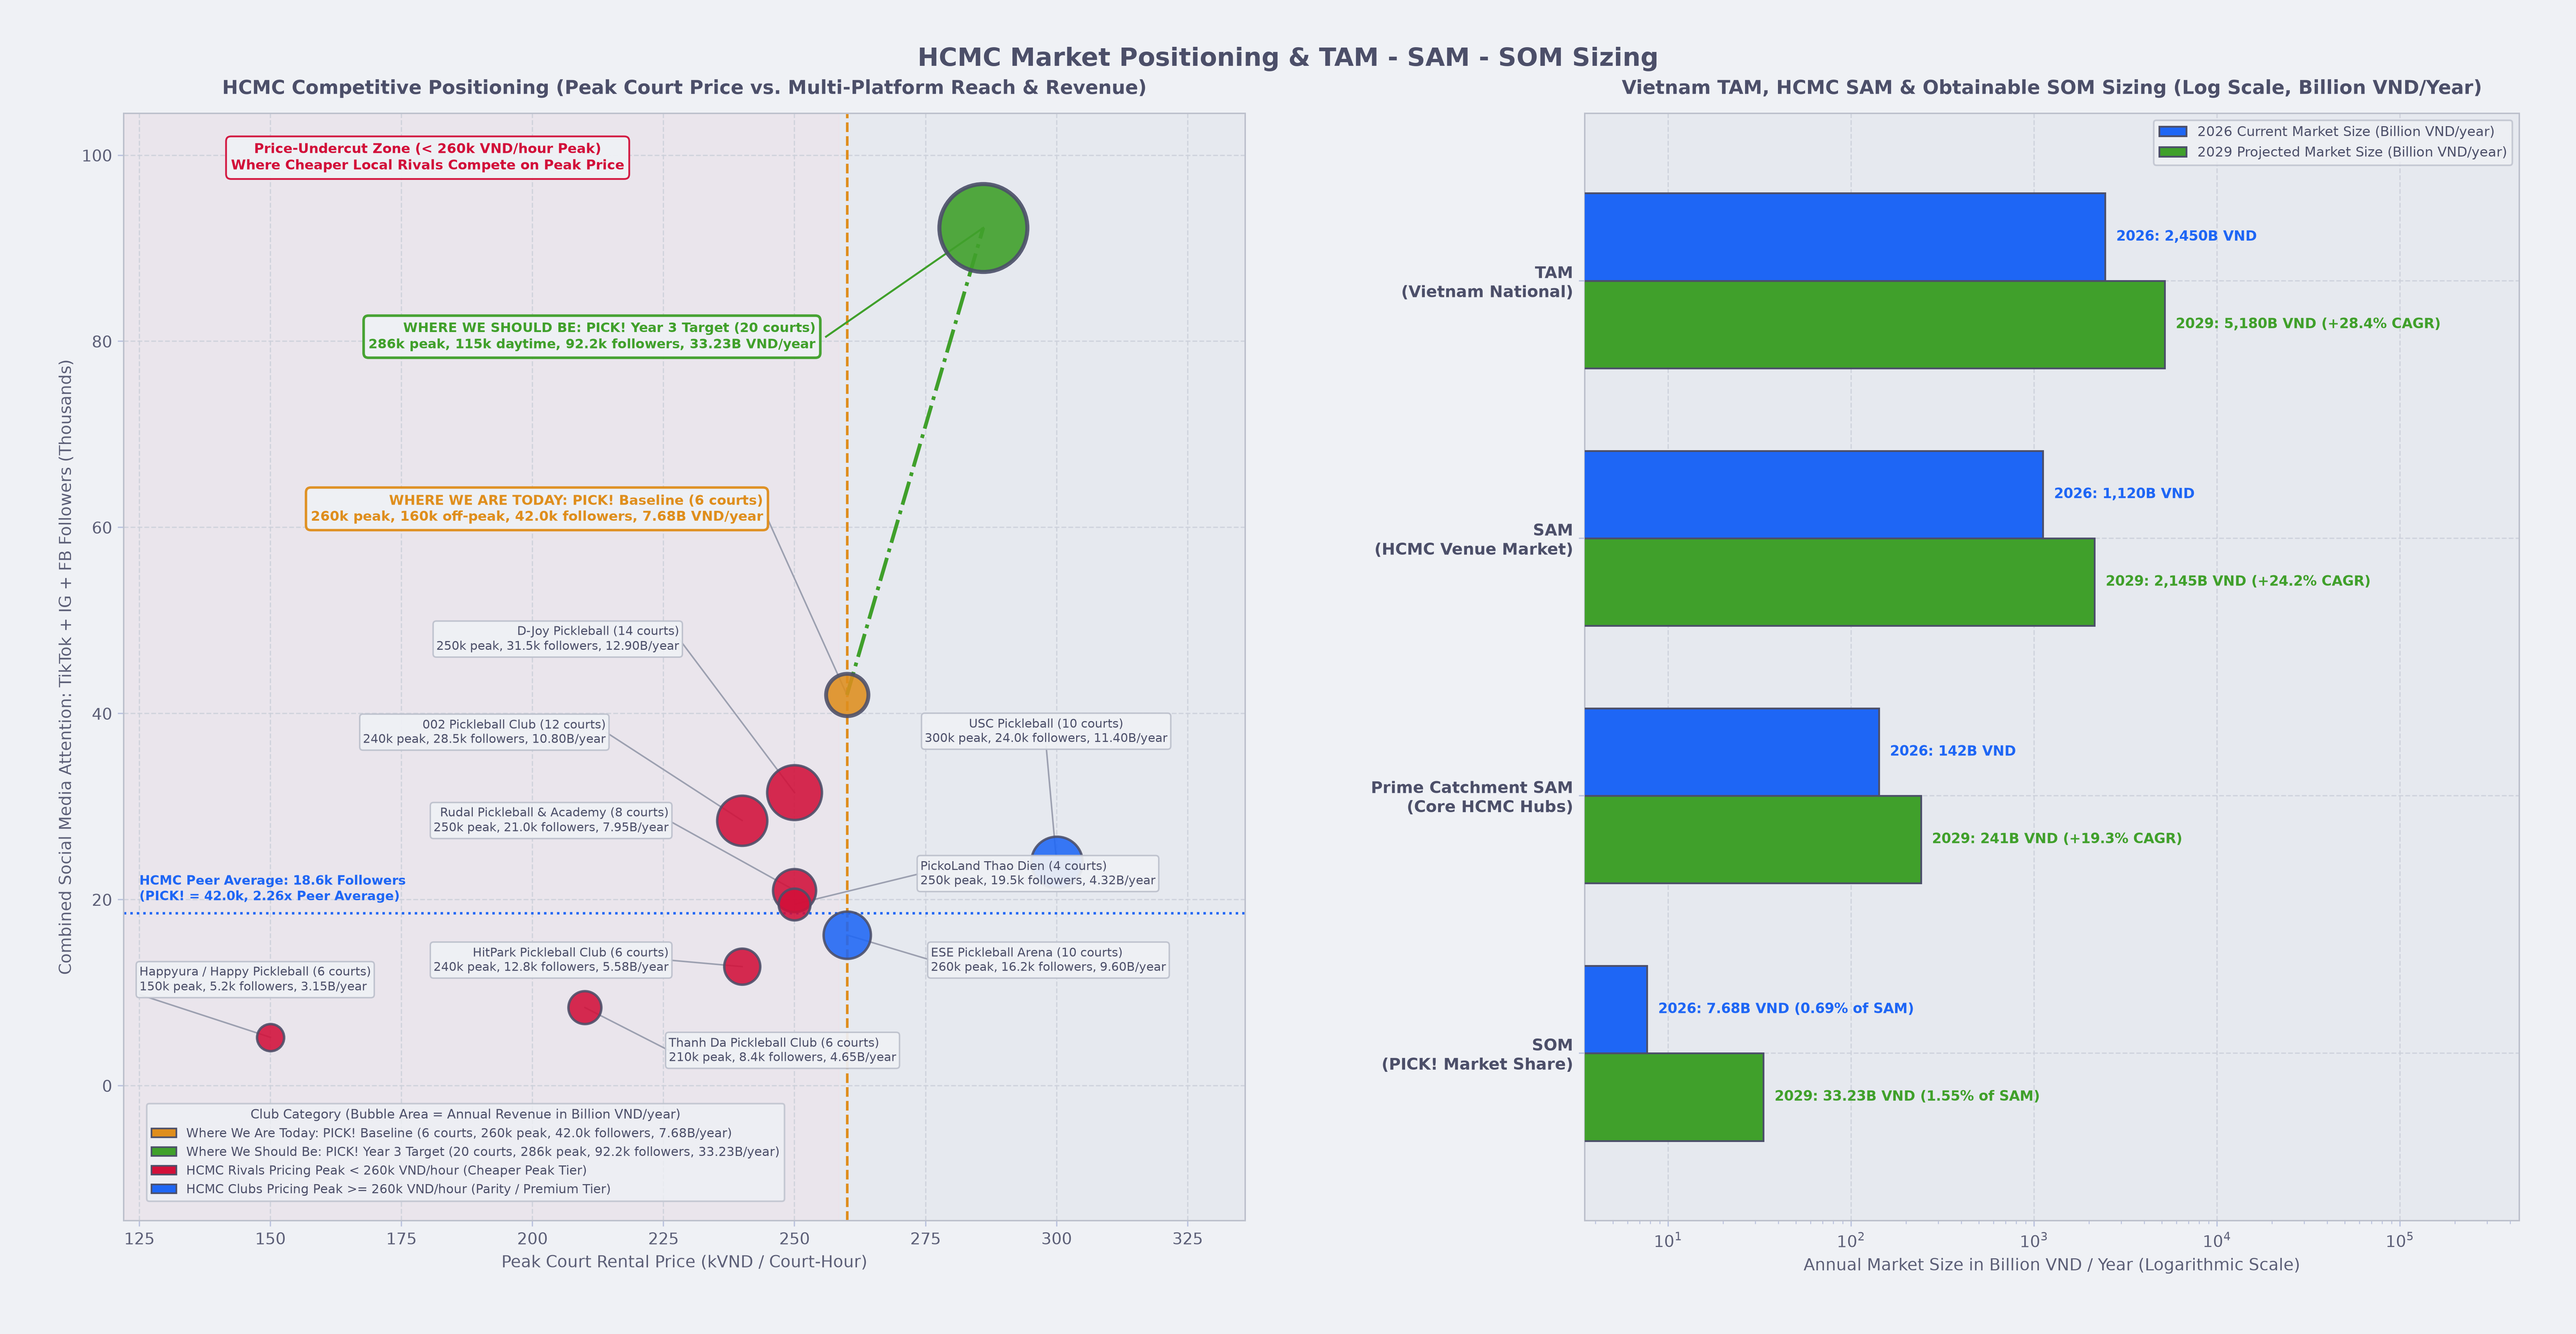
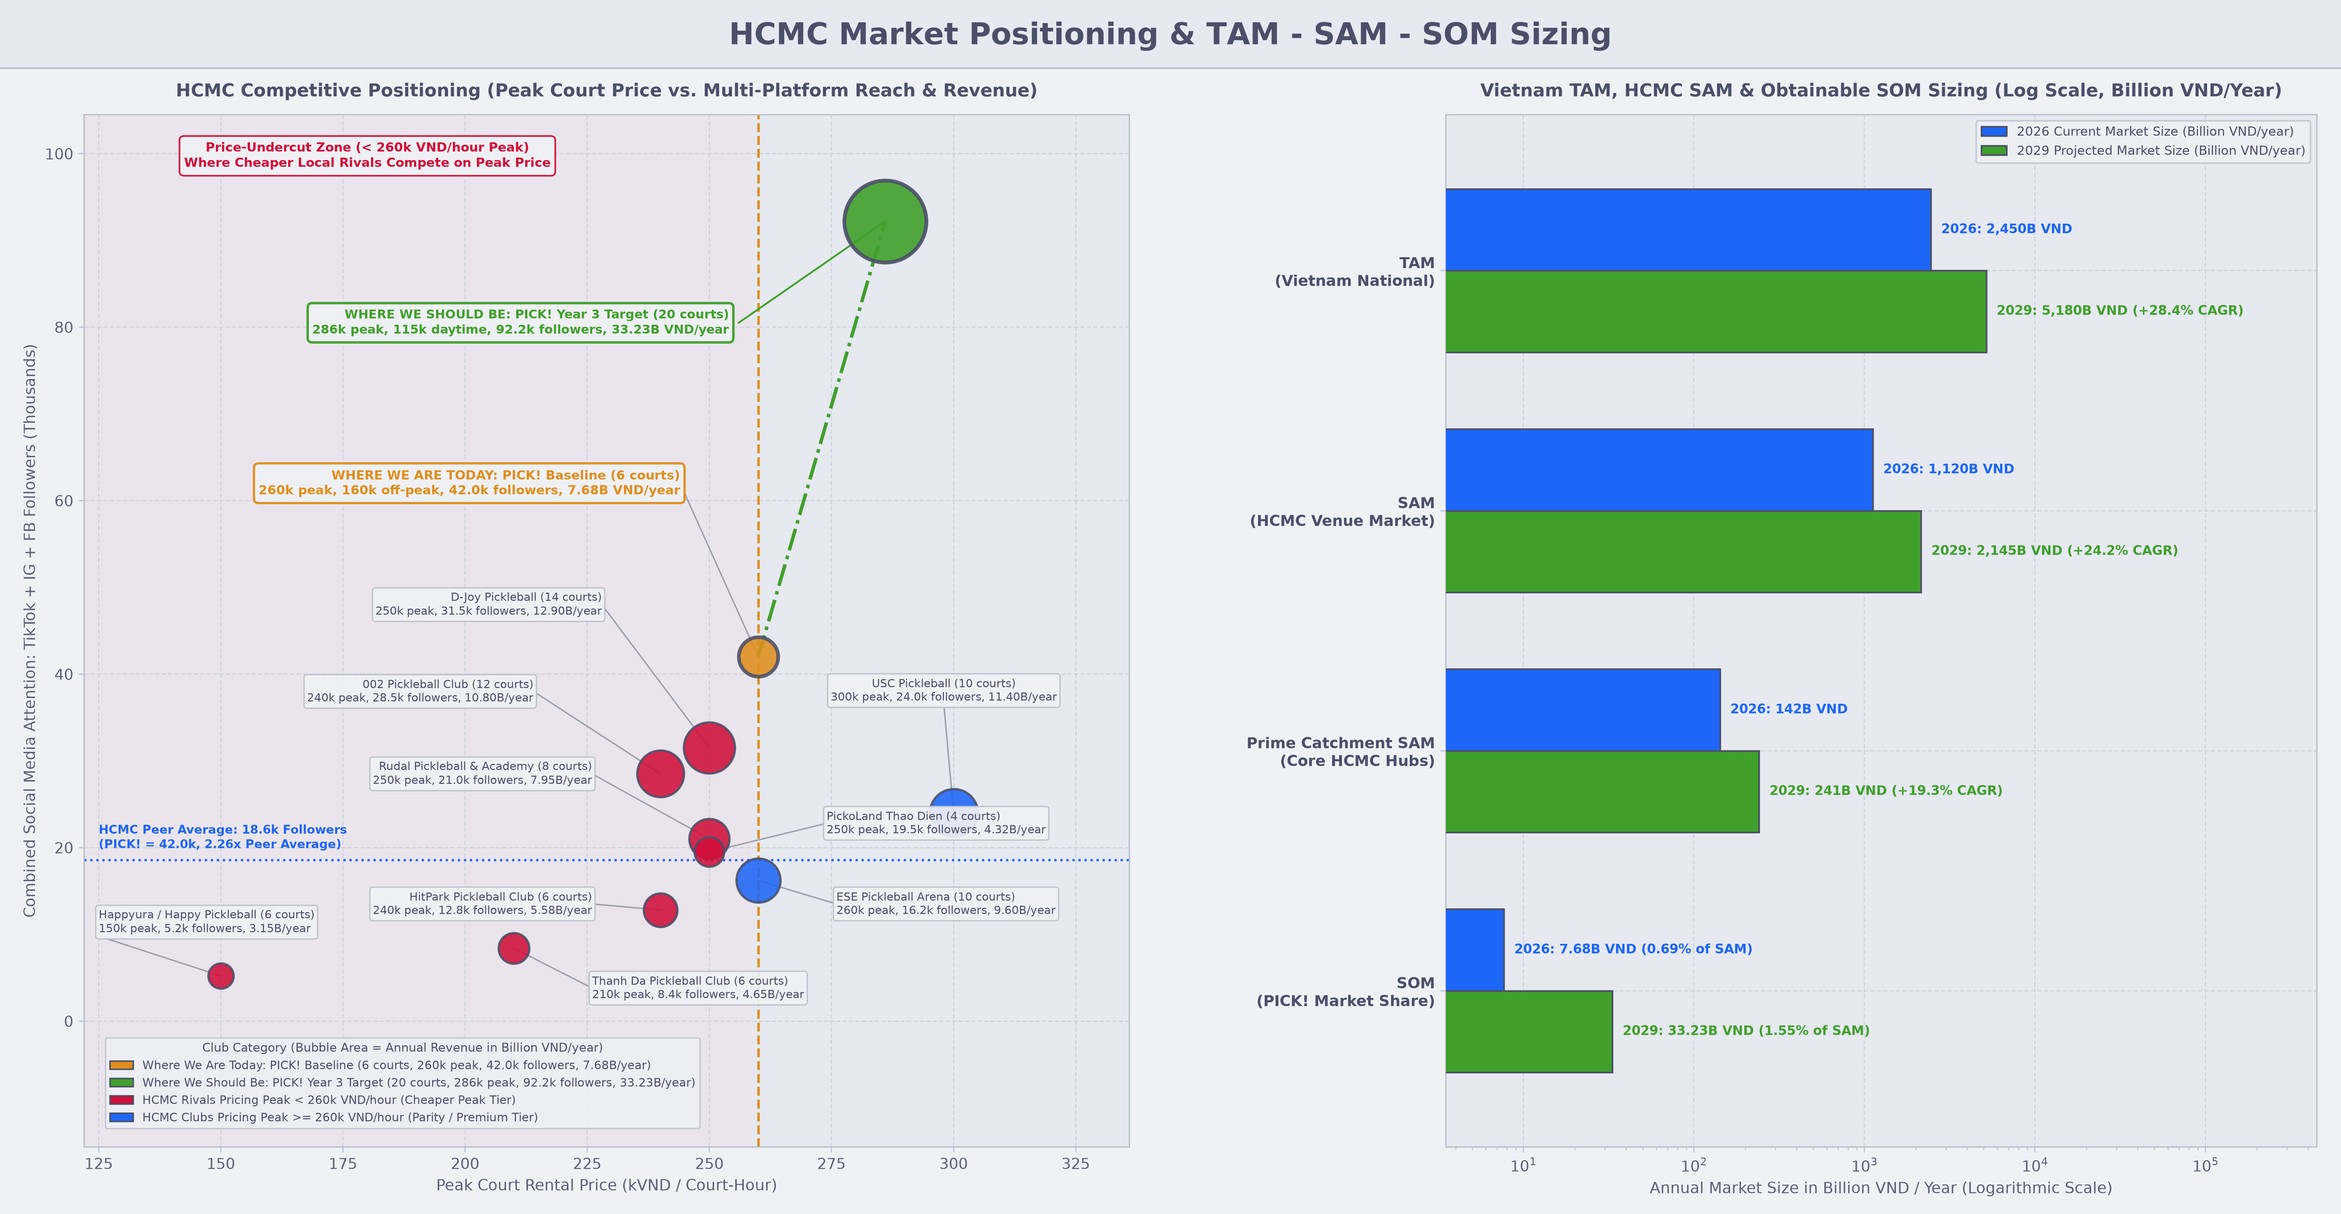
Standardize unified top header section and title alignment across all 25 charts

diff --git a/theme.py b/theme.py
@@ -329,20 +329,118 @@ def apply_latte_theme_to_figure(fig: mfigure.Figure) -> None:
 
 
 def _themed_savefig(self: mfigure.Figure, *args, **kwargs):
-    """Wrapper around `Figure.savefig` that applies the active Catppuccin theme (`Mocha` or `Latte`) at high poster DPI (>= 320)."""
+    """
+    Wrapper around `Figure.savefig` that applies the active Catppuccin theme (`Mocha` or `Latte`),
+    renders the content area tightly, and attaches a standardized, pixel-identical Header Section
+    across the top of every saved image.
+    """
+    import io
+    import matplotlib.font_manager as fm
+    from PIL import Image, ImageDraw, ImageFont
+
     req_dpi = kwargs.get("dpi")
     base_dpi = float(req_dpi) if isinstance(req_dpi, (int, float)) else float(self.dpi or 320.0)
-    kwargs["dpi"] = max(base_dpi, 320.0)
+    render_dpi = max(base_dpi, 320.0)
+
+    # 1. Extract main chart title from `fig._suptitle` or top-center figure text and remove from content render
+    header_title = ""
+    if getattr(self, "_suptitle", None) is not None:
+        header_title = self._suptitle.get_text().strip()
+        if self._suptitle in self.texts:
+            self.texts.remove(self._suptitle)
+        self._suptitle = None
+
+    remaining_texts = []
+    for txt in list(self.texts):
+        pos = txt.get_position()
+        if len(pos) >= 2 and float(pos[1]) >= 0.935 and txt.get_ha() == "center":
+            if not header_title:
+                header_title = txt.get_text().strip()
+        else:
+            remaining_texts.append(txt)
+    self.texts = remaining_texts
+
+    header_title = " ".join(header_title.split())
+
+    # 2. Apply active Catppuccin theme (`Latte` or `Mocha`)
     active = get_theme()
     if active == "Latte":
         apply_latte_theme_to_figure(self)
-        if "facecolor" in kwargs:
-            kwargs["facecolor"] = _map_color(kwargs["facecolor"], FACE_MOCHA_TO_LATTE, preserve_alpha=False)
-        else:
-            kwargs["facecolor"] = "#eff1f5"
-        if "edgecolor" in kwargs:
-            kwargs["edgecolor"] = _map_color(kwargs["edgecolor"], FACE_MOCHA_TO_LATTE, preserve_alpha=False)
-    return _ORIG_SAVEFIG(self, *args, **kwargs)
+        bg_hex = "#eff1f5"
+        hdr_bg_rgb = (230, 233, 239)      # #e6e9ef (Latte Mantle)
+        hdr_border_rgb = (188, 192, 204)  # #bcc0cc (Latte Surface1)
+        hdr_text_rgb = (76, 79, 105)      # #4c4f69 (Latte Text)
+        canvas_bg_rgb = (239, 241, 245)   # #eff1f5 (Latte Base)
+    else:
+        bg_hex = "#1e1e2e"
+        hdr_bg_rgb = (24, 24, 37)         # #181825 (Mocha Mantle)
+        hdr_border_rgb = (69, 71, 90)     # #45475a (Mocha Surface1)
+        hdr_text_rgb = (205, 214, 244)    # #cdd6f4 (Mocha Text)
+        canvas_bg_rgb = (30, 30, 46)      # #1e1e2e (Mocha Base)
+
+    # 3. Render the content-only figure into an in-memory PNG buffer
+    buf = io.BytesIO()
+    save_kwargs = dict(kwargs)
+    save_kwargs["dpi"] = render_dpi
+    save_kwargs["format"] = "png"
+    save_kwargs["bbox_inches"] = "tight"
+    save_kwargs["pad_inches"] = 0.03
+    save_kwargs["facecolor"] = bg_hex
+    save_kwargs["edgecolor"] = bg_hex
+    _ORIG_SAVEFIG(self, buf, **save_kwargs)
+    buf.seek(0)
+
+    content_img = Image.open(buf).convert("RGB")
+    arr = np.asarray(content_img, dtype=np.int16)
+    bg_arr = np.array(canvas_bg_rgb, dtype=np.int16)
+    mask = np.any(np.abs(arr - bg_arr) > 2, axis=2)
+    if np.any(mask):
+        ys, xs = np.where(mask)
+        content_img = content_img.crop((int(xs.min()), int(ys.min()), int(xs.max()) + 1, int(ys.max()) + 1))
+
+    # 4. Normalize content width and compose with the universal Header Section
+    TARGET_W = 6400
+    PAD_X = 64
+    HEADER_H = 188 if header_title else 0
+    BORDER_H = 4 if header_title else 0
+    PAD_TOP = 38 if header_title else 48
+    PAD_BOTTOM = 48
+
+    content_target_w = TARGET_W - 2 * PAD_X
+    scale = content_target_w / float(max(1, content_img.width))
+    content_target_h = max(1, int(round(content_img.height * scale)))
+    content_resized = content_img.resize((content_target_w, content_target_h), Image.Resampling.LANCZOS)
+
+    total_h = HEADER_H + PAD_TOP + content_target_h + PAD_BOTTOM
+    final_img = Image.new("RGB", (TARGET_W, total_h), canvas_bg_rgb)
+    draw = ImageDraw.Draw(final_img)
+
+    if header_title:
+        # Header section background and bottom divider rule
+        draw.rectangle([0, 0, TARGET_W, HEADER_H - BORDER_H], fill=hdr_bg_rgb)
+        draw.rectangle([0, HEADER_H - BORDER_H, TARGET_W, HEADER_H], fill=hdr_border_rgb)
+
+        ttf_path = fm.findfont(fm.FontProperties(family="sans-serif", weight="bold"))
+        font_sz = 82
+        font = ImageFont.truetype(ttf_path, size=font_sz)
+        bbox = draw.textbbox((TARGET_W // 2, (HEADER_H - BORDER_H) // 2), header_title, font=font, anchor="mm")
+        while (bbox[2] - bbox[0]) > (TARGET_W - 2 * PAD_X) and font_sz > 48:
+            font_sz -= 2
+            font = ImageFont.truetype(ttf_path, size=font_sz)
+            bbox = draw.textbbox((TARGET_W // 2, (HEADER_H - BORDER_H) // 2), header_title, font=font, anchor="mm")
+
+        draw.text(
+            (TARGET_W // 2, (HEADER_H - BORDER_H) // 2),
+            header_title,
+            font=font,
+            fill=hdr_text_rgb,
+            anchor="mm",
+        )
+
+    final_img.paste(content_resized, (PAD_X, HEADER_H + PAD_TOP))
+    out_target = args[0] if args else kwargs.get("fname")
+    final_img.save(out_target, format="PNG", dpi=(320, 320))
+    return None
 
 
 def install_theme_hook() -> None:

diff --git a/FinancialModel/src/visualizer.py b/FinancialModel/src/visualizer.py
@@ -78,6 +78,7 @@ def _render_pure_table(
     row_height_in: float,
     out_path: Path,
     font_size: float = 8.2,
+    title: str = "",
 ) -> Path:
     """
     Render a hierarchical financial table with variable row heights, visual gaps
@@ -89,6 +90,8 @@ def _render_pure_table(
     fig_height = max(2.0, total_weight * row_height_in)
     fig = plt.figure(figsize=(fig_width, fig_height), dpi=240)
     fig.patch.set_facecolor("#1e1e2e")
+    if title:
+        fig.suptitle(title, fontsize=15.0, fontweight="bold", color="#cdd6f4")
     ax = fig.add_axes([0.0, 0.0, 1.0, 1.0])
     ax.set_facecolor("#1e1e2e")
 
@@ -373,10 +376,6 @@ def plot_drivers_and_cost_breakdown_sheet(
     empty_10 = [""] * 10
 
     rows: list[tuple[str, list[str]]] = [
-        ("sec_hdr", [
-            "INCOME STATEMENT STRUCTURE: REVENUE, COGS, FACILITY OPEX, SG&A, D&A & TAXES (M VND)",
-            "", "", "", "", "", "", "", "", "",
-        ]),
         ("col_hdr", [
             "Category",
             "Line Item",
@@ -479,10 +478,11 @@ def plot_drivers_and_cost_breakdown_sheet(
         col_widths=col_widths,
         align_fn=_align_s1,
         style_fn=_style_s1,
-        fig_width=21.0,
-        row_height_in=0.33,
+        fig_width=22.4,
+        row_height_in=0.275,
         out_path=output_dir / "01_revenue_cogs_opex_sga_sheet.png",
         font_size=7.9,
+        title="Income Statement Structure: Revenue, COGS, OpEx, SG&A & Taxes",
     )
 
 
@@ -575,6 +575,7 @@ def plot_fs_month_projection_sheet(
         row_height_in=0.28,
         out_path=output_dir / "02_fs_month_60m_projection_sheet.png",
         font_size=7.3,
+        title="Monthly 3-Statement Financial Projections (Year 1 + Y2 & Y5 Snapshots)",
     )
 
 
@@ -664,6 +665,7 @@ def plot_fs_annual_and_structure_dashboard(
         row_height_in=0.29,
         out_path=output_dir / "03_fs_annual_5y_projection_sheet.png",
         font_size=7.8,
+        title="Annual 5-Year 3-Statement Financial Projections (FY 2027 - FY 2031)",
     )
 
 
@@ -683,9 +685,9 @@ def plot_revenue_costs_profit_comparison_charts(
       - Panel A: 5-Year Annual Comparison (FY 2027 to FY 2031)
       - Panel B: Monthly Trajectory Across Year 1 & Year 2 (Months 1-24: Jan-27 to Dec-28)
     """
-    fig, (ax_ann, ax_mon) = plt.subplots(2, 1, figsize=(19.4, 14.0), dpi=240)
+    fig, (ax_ann, ax_mon) = plt.subplots(2, 1, figsize=(21.5, 11.2), dpi=240)
     fig.patch.set_facecolor("#1e1e2e")
-    plt.subplots_adjust(hspace=0.30, top=0.92, bottom=0.06)
+    plt.subplots_adjust(left=0.055, right=0.985, hspace=0.28, top=0.92, bottom=0.06)
     fig.suptitle(
         "Annual & Monthly Revenue, Cost Structure & Profit Comparison",
         fontsize=14.5,
@@ -1126,9 +1128,9 @@ def plot_membership_and_monte_carlo_distributions(
         vs. -30% Lower Demand Stress Test vs. Investor Minh Tran's 3,500M VND Year 3 Target).
     """
     mc = res.mc
-    fig, ((ax_a, ax_b), (ax_c, ax_d)) = plt.subplots(2, 2, figsize=(20.0, 12.6), dpi=240)
+    fig, ((ax_a, ax_b), (ax_c, ax_d)) = plt.subplots(2, 2, figsize=(21.2, 11.2), dpi=240)
     fig.patch.set_facecolor("#1e1e2e")
-    plt.subplots_adjust(wspace=0.20, hspace=0.28, top=0.915, bottom=0.07)
+    plt.subplots_adjust(left=0.055, right=0.985, wspace=0.18, hspace=0.28, top=0.915, bottom=0.07)
 
     x_m = np.arange(1, 61)
     tick_idx = [0, 5, 11, 23, 35, 47, 59]
@@ -1505,9 +1507,9 @@ def plot_monthly_cash_balance_and_externals(
     tick_idx = list(range(0, 60, 4)) + [59]
     tick_lbls = [res.month_labels[i] for i in tick_idx]
 
-    fig, axes = plt.subplots(3, 1, figsize=(18.5, 13.5), dpi=220, sharex=True)
+    fig, axes = plt.subplots(3, 1, figsize=(21.2, 11.6), dpi=220, sharex=True)
     fig.patch.set_facecolor("#1e1e2e")
-    fig.subplots_adjust(hspace=0.26, top=0.92, bottom=0.06)
+    fig.subplots_adjust(left=0.055, right=0.985, hspace=0.25, top=0.92, bottom=0.06)
 
     # Panel A: 60-Month Ending Cash Balance Trajectory
     ax1 = axes[0]

diff --git a/MarketResearch/src/visualizer.py b/MarketResearch/src/visualizer.py
@@ -448,6 +448,8 @@ def plot_customer_personas_and_mutual_demand(
     # PANEL A (Top Half, Spans Both Columns): Compact High-Readability Grid Table
     # ==========================================================================
     ax_tbl = fig.add_subplot(gs[0, :])
+    tbl_pos = ax_tbl.get_position()
+    ax_tbl.set_position([0.008, tbl_pos.y0, 0.985 - 0.008, tbl_pos.height])
     ax_tbl.set_facecolor("#1e1e2e")
     ax_tbl.axis("off")
 
@@ -459,18 +461,6 @@ def plot_customer_personas_and_mutual_demand(
     ordered_personas = sorted(cfg.personas, key=lambda p: p.priority_rank)
 
     table_rows: list[tuple[str, list[str]]] = [
-        (
-            "banner",
-            [
-                "CUSTOMER SEGMENT PROFILES, RETENTION FRICTIONS & DERIVED MUTUAL DEMAND (ORDERED BY STRATEGIC PRIORITY)",
-                "",
-                "",
-                "",
-                "",
-                "",
-                "",
-            ],
-        ),
         (
             "header",
             [
@@ -548,7 +538,7 @@ def plot_customer_personas_and_mutual_demand(
         )
     )
 
-    row_weights = [0.38, 0.56, 1.02, 1.02, 1.02, 1.02, 0.88]
+    row_weights = [0.58, 1.04, 1.04, 1.04, 1.04, 0.90]
     tot_weight = sum(row_weights)
     curr_y = 1.0
 
